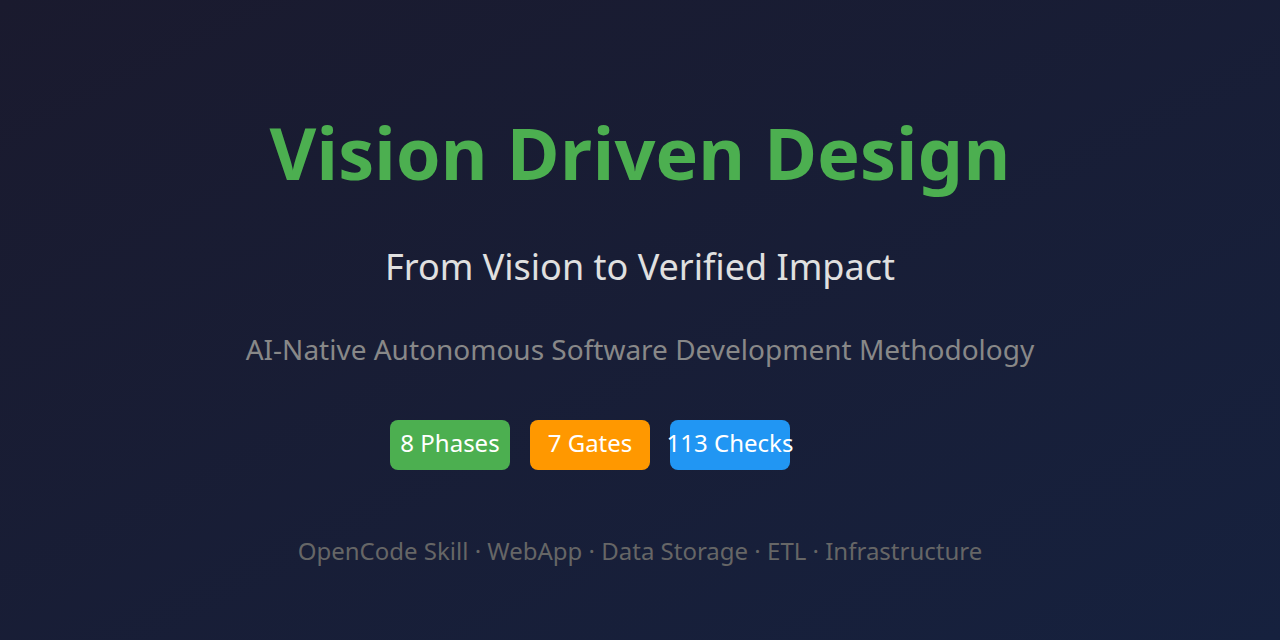
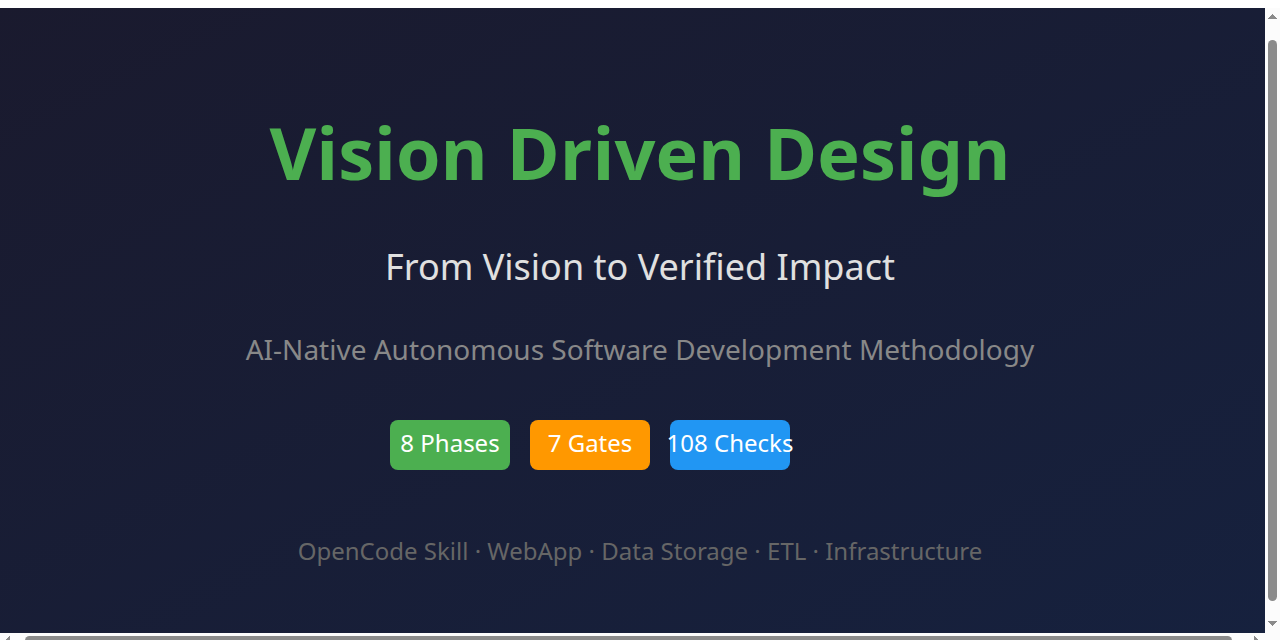
fix(seo): correct social preview to "108 Checks" and regenerate og.png
docs/social-preview.svg read "113 Checks" (stale); the canonical count is
108. Regenerated og.png (1280x640 PNG) from the corrected SVG so the
Open Graph/Twitter image on vdd.simonmak.com and the GitHub repository
social preview both show the right number.

Changed region(s): [[0.0, 0.0, 1.0, 1.0], [0.5312, 0.6875, 0.5625, 0.7188]]

diff --git a/CHANGELOG.md b/CHANGELOG.md
@@ -2,6 +2,9 @@
 
 ## [Unreleased]
 
+### Fixed (social preview asset)
+- `docs/social-preview.svg` said **"113 Checks"**; corrected to the canonical **108**. Regenerated `og.png` (1280×640 PNG) from it so the Open Graph/Twitter image and the GitHub repository social preview show the correct count.
+
 ## [1.8.2] — 2026-09-27
 
 ### Fixed (SEO follow-up)
